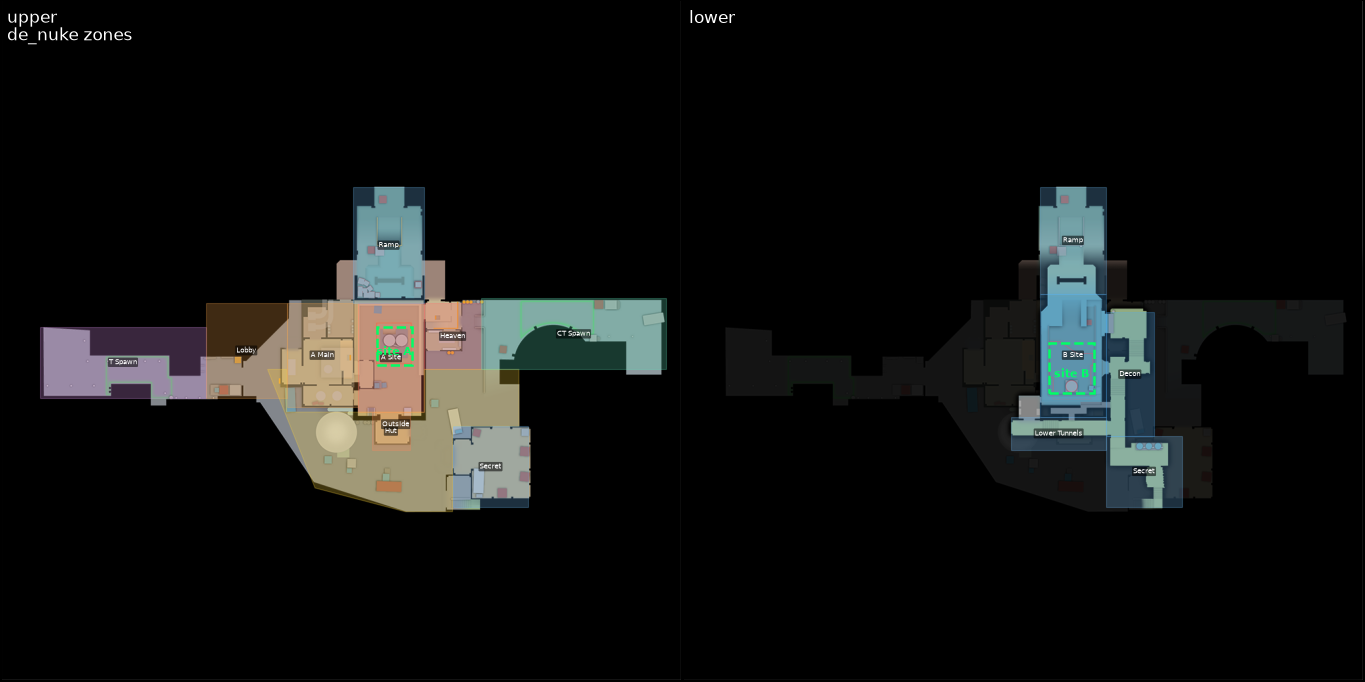
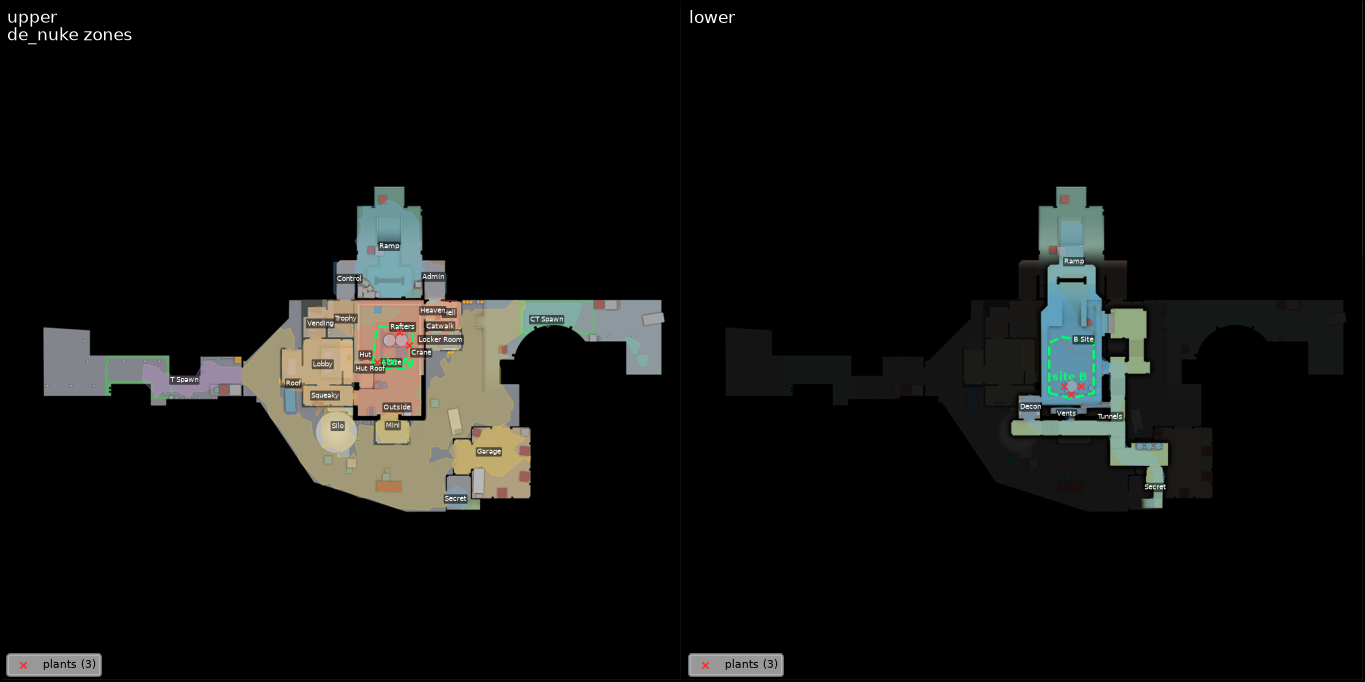
Rebuild the Cache and Nuke configs from real demos
Both maps were drawn by hand over the radar. Zones now come from the
game's nav place names in one demo each: 44 instead of 14 on Cache, 28
instead of 13 on Nuke. Every plant of those demos falls in its site.

One demo sees too little of a bomb site, so a site is the convex hull of
its outline on the radar, the T bomb-zone flags and the plants. Demos
carry no zone groups: they are set by hand from the layout and from who
reaches each zone when.

diff --git a/tests/test_maps.py b/tests/test_maps.py
@@ -53,6 +53,25 @@ def test_pool_configs_exist_and_are_complete():
     assert load_map_config("de_nosuchmap") is None
 
 
+@pytest.mark.parametrize(
+    ("map_name", "expected"),
+    [
+        ("de_cache", {"Truck": "A", "Long A": "A_approach", "Heaven": "B", "Sun Room": "B_approach", "Sandbags": "mid", "T Yard": "t_spawn", "Bus Stop": "ct_spawn"}),
+        ("de_nuke", {"Hell": "A", "Trophy": "A_approach", "Vents": "B", "Tunnels": "B_approach", "Silo": "mid"}),
+    ],
+)
+def test_configs_built_from_demos(map_name, expected):
+    cfg = load_map_config(map_name)
+    assert cfg.source.startswith("derived")
+    assert expected.items() <= {z.name: z.group for z in cfg.zones}.items()
+
+
+def test_nuke_sites_are_on_different_levels():
+    cfg = load_map_config("de_nuke")
+    # the same spot of the map: A upstairs, B below it
+    assert cfg.site_of([650, 650], [-900, -900], [-400, -760]) == ["A", "B"]
+
+
 def test_plants_fall_in_their_site(dust2_mini):
     cfg = load_map_config("de_dust2")
     plants = pl.read_parquet(dust2_mini / "bomb.parquet").filter(pl.col("event") == "finish_plant")
